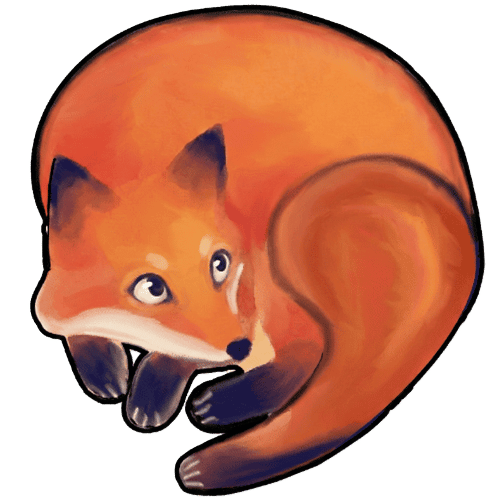
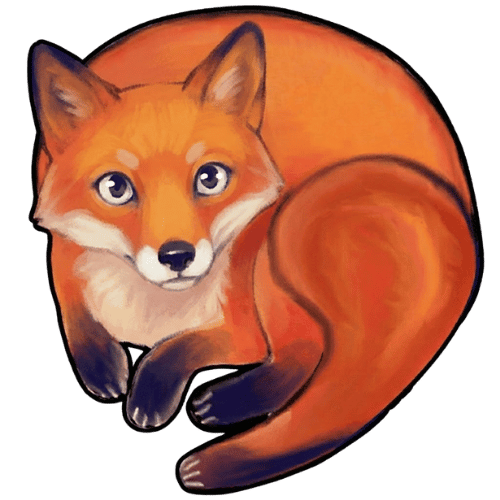
Update filters UI and fox assets

diff --git a/src/App.jsx b/src/App.jsx
@@ -222,17 +222,15 @@ export default function LessicoGame() {
 
   const handleFoxClick = () => {
     setFoxAnim(true);
-
     if (foxCycleStep === 0) {
-      setFoxVariant('alt');
+      setFoxVariant('feedback-ok'); // occhi aperti
       setFoxAnimSize('small'); // primo click: zoom leggero
       setFoxCycleStep(1);
     } else {
-      setFoxVariant('happy');
+      setFoxVariant('feedback-wrong'); // testa alzata
       setFoxAnimSize('big'); // secondo click: zoom ampio
       setFoxCycleStep(0);
     }
-
     if (foxAnimTimeout.current) clearTimeout(foxAnimTimeout.current);
     foxAnimTimeout.current = setTimeout(() => {
       setFoxAnim(false);
@@ -241,25 +239,28 @@ export default function LessicoGame() {
   };
 
   // Gestione upload file
+  const processCSVFile = (file) => {
+    if (!file) return;
+    const reader = new FileReader();
+    reader.onload = (event) => {
+      try {
+        const parsed = parseCSV(event.target.result);
+        if (!parsed.length) {
+          throw new Error('CSV vuoto o non compatibile');
+        }
+        setWords(parsed);
+        setShuffledWords([...parsed].sort(() => Math.random() - 0.5));
+        setDemoMode(false);
+      } catch (err) {
+        triggerSelectionWarning('File non compatibile. Esporta da Google Sheet come CSV con intestazione.');
+      }
+    };
+    reader.readAsText(file);
+  };
+
   const handleFileUpload = (e) => {
     const file = e.target.files[0];
-    if (file) {
-      const reader = new FileReader();
-      reader.onload = (event) => {
-        try {
-          const parsed = parseCSV(event.target.result);
-          if (!parsed.length) {
-            throw new Error('CSV vuoto o non compatibile');
-          }
-          setWords(parsed);
-          setShuffledWords([...parsed].sort(() => Math.random() - 0.5));
-          setDemoMode(false);
-        } catch (err) {
-          triggerSelectionWarning('File non compatibile. Esporta da Google Sheet come CSV con intestazione.');
-        }
-      };
-      reader.readAsText(file);
-    }
+    processCSVFile(file);
   };
 
   // Demo mode: carica 50 parole dal CSV incluso (bundled)
@@ -582,11 +583,11 @@ export default function LessicoGame() {
 
   const InstructionsModal = () => (
     <div
-      className="fixed inset-0 bg-black/70 backdrop-blur-sm z-50 flex items-center justify-center p-4"
+      className="fixed inset-0 bg-black/70 backdrop-blur-sm z-50 flex items-start justify-center p-4 overflow-y-auto"
       onClick={() => setShowInstructions(false)}
     >
       <div
-        className="bg-slate-900 rounded-3xl border border-slate-700 max-w-xl w-full p-6 text-slate-100 shadow-2xl"
+        className="bg-slate-900 rounded-3xl border border-slate-700 max-w-xl w-full p-6 text-slate-100 shadow-2xl mt-6 max-h-[85vh] overflow-y-auto"
         onClick={(e) => e.stopPropagation()}
       >
         <div className="flex items-start justify-between mb-4">
@@ -598,7 +599,7 @@ export default function LessicoGame() {
             ✕
           </button>
         </div>
-        <div className="space-y-3 text-sm text-slate-200 leading-relaxed">
+        <div className="space-y-4 text-sm text-slate-200 leading-relaxed">
           <div>
             <p className="font-semibold">1. 🔍 Filtri</p>
             <p>Se lasci “tutte”, usi l’intero database. Puoi filtrare per:</p>
@@ -609,15 +610,13 @@ export default function LessicoGame() {
               <li>🔁 da rivedere (errori o parole segnate durante il gioco)</li>
             </ul>
           </div>
-
-          <div className="space-y-1">
+          <div className="border-t border-slate-700 pt-4 space-y-1">
             <p className="font-semibold">2. 📚 Tab Studio</p>
             <p>Puoi studiare in due modi:</p>
             <p>1⃣ <strong>Vista Schede</strong>: elenco con definizione, etimologia ed esempi. Da qui puoi aggiungere parole alla sezione “Parole da rivedere”.</p>
             <p>2⃣ <strong>Vista Flashcard</strong>: vedi la parola, clicchi per girarla e leggere i dettagli; poi puoi decidere se aggiungerla a “Parole da rivedere”.</p>
           </div>
-
-          <div className="space-y-1">
+          <div className="border-t border-slate-700 pt-4 space-y-1">
             <p className="font-semibold">3. 🔁 Parole da rivedere</p>
             <p>Raccoglie gli errori commessi nei giochi o le parole selezionate nello studio.</p>
             <p>Funzioni:</p>
@@ -628,8 +627,7 @@ export default function LessicoGame() {
             </ul>
             <p className="mt-1">Quando una parola è acquisita, rimuovila da “Parole da rivedere”.</p>
           </div>
-
-          <div className="space-y-1">
+          <div className="border-t border-slate-700 pt-4 space-y-1">
             <p className="font-semibold">4. 🎮 Tab Giochi</p>
             <p>Quiz, Speed, Completa, Memory usano sempre il set filtrato all’inizio. Ideali per ripassare dopo lo studio.</p>
           </div>
@@ -1239,12 +1237,12 @@ export default function LessicoGame() {
             className="transition-transform hover:scale-105"
             aria-label="Logo"
           >
-            <img
+              <img
               src={
                 foxVariant === 'feedback-ok'
-                  ? LogoVolpinaTestaAlzata
-                  : foxVariant === 'feedback-wrong'
                   ? LogoVolpinaOcchiAperti
+                  : foxVariant === 'feedback-wrong'
+                  ? LogoVolpinaTestaAlzata
                   : foxVariant === 'happy'
                   ? LogoVolpinaOcchiAperti
                   : foxVariant === 'alt'
@@ -1260,22 +1258,29 @@ export default function LessicoGame() {
         <p className="text-slate-400 mb-8">Impara parole nuove giocando!</p>
         
         <div className="space-y-2">
-          <div className="flex items-center justify-between text-slate-200 font-medium">
-            <p>Carica il tuo CSV</p>
+          <div className="flex items-center justify-center gap-2">
+            <p className="text-slate-200 font-medium">Carica il tuo CSV</p>
             <button
               onClick={() => setShowUploadInfo(true)}
-              className="w-6 h-6 rounded-full border border-slate-600 text-slate-300 text-xs flex items-center justify-center hover:text-cyan-300 hover:border-cyan-500"
-              aria-label="Info CSV"
+              className="w-7 h-7 rounded-full border border-slate-600 text-slate-300 text-sm flex items-center justify-center hover:text-cyan-300 hover:border-cyan-500"
+              aria-label="Info formato CSV"
             >
               i
             </button>
           </div>
           <label className="block cursor-pointer group">
-            <div className="border-2 border-dashed border-slate-600 rounded-2xl p-8 transition-all group-hover:border-cyan-700 group-hover:bg-slate-700/20">
+            <div
+              className="border-2 border-dashed border-slate-600 rounded-2xl p-8 transition-all group-hover:border-cyan-700 group-hover:bg-slate-700/20"
+              onDragOver={(e) => e.preventDefault()}
+              onDrop={(e) => {
+                e.preventDefault();
+                const file = e.dataTransfer.files?.[0];
+                processCSVFile(file);
+              }}
+            >
               <Upload className="w-12 h-12 text-slate-500 mx-auto mb-4 group-hover:text-cyan-600 transition-colors" />
-              <p className="text-slate-200 font-medium mb-2">Formato CSV con 12 colonne</p>
-              <p className="text-slate-500 text-sm">Separatore: virgola, UTF-8, prima riga di intestazione.</p>
-              <p className="text-slate-500 text-xs mt-1">Ordine colonne: Data, Termine, Accento, Definizione, Etimologia, Esempio1/2/3, Frequenza d'uso, Linguaggio tecnico, Errori, APPRESO.</p>
+              <p className="text-slate-200 font-medium mb-1">Trascina o seleziona un file CSV</p>
+              <p className="text-slate-500 text-sm">Formato: CSV UTF-8 con intestazione.</p>
             </div>
             <input type="file" accept=".csv" onChange={handleFileUpload} className="hidden" />
           </label>
@@ -1317,9 +1322,9 @@ export default function LessicoGame() {
             <img
               src={
                 foxVariant === 'feedback-ok'
-                  ? LogoVolpinaTestaAlzata
-                  : foxVariant === 'feedback-wrong'
                   ? LogoVolpinaOcchiAperti
+                  : foxVariant === 'feedback-wrong'
+                  ? LogoVolpinaTestaAlzata
                   : foxVariant === 'happy'
                   ? LogoVolpinaOcchiAperti
                   : foxVariant === 'alt'
@@ -1332,8 +1337,9 @@ export default function LessicoGame() {
           </button>
         </div>
           <h1 className="text-4xl font-bold text-slate-100 mb-2">Giochi di parole</h1>
-          <div className="flex items-center justify-center gap-3 text-slate-400">
+          <div className="flex items-center justify-center gap-2 text-slate-400">
             <p>{filteredPool.length} parole disponibili</p>
+            <span className="text-slate-500">-</span>
             <button
               onClick={() => setShowInstructions(true)}
               className="text-slate-200 underline decoration-dotted underline-offset-4 hover:text-cyan-300 text-sm"
@@ -1347,28 +1353,18 @@ export default function LessicoGame() {
         <div className="bg-slate-800/50 border border-slate-700/60 p-6 rounded-3xl mb-6 shadow-xl">
           <div className="flex items-center justify-between">
             <div>
-              <p className="text-slate-200 font-bold text-lg flex items-center gap-2">
-                Selezione parole
-                <button
-                  type="button"
-                  onClick={() => setShowSelectionInfo(true)}
-                  className="w-5 h-5 rounded-full border border-slate-600 text-slate-300 text-xs flex items-center justify-center hover:text-cyan-300 hover:border-cyan-500"
-                  aria-label="Info selezione parole"
-                >
-                  i
-                </button>
+              <p className="text-slate-200 font-bold text-lg">Seleziona le parole con cui giocare</p>
+              <p className="text-slate-400 text-sm mt-1">
+                Disponibili: {filteredPool.length}
+                {learnedFilter !== 'all' && (
+                  <span className="text-xs text-cyan-300 ml-2">
+                    ({learnedFilter === 'yes' ? 'solo apprese' : 'solo da apprendere'})
+                  </span>
+                )}
+                {onlyWrongSubset && (
+                  <span className="text-xs text-orange-300 ml-2">(solo sbagliate)</span>
+                )}
               </p>
-          <p className="text-slate-400 text-sm mt-1">
-            Disponibili: {filteredPool.length}
-            {learnedFilter !== 'all' && (
-              <span className="text-xs text-cyan-300 ml-2">
-                ({learnedFilter === 'yes' ? 'solo apprese' : 'solo da apprendere'})
-              </span>
-            )}
-            {onlyWrongSubset && (
-              <span className="text-xs text-orange-300 ml-2">(solo sbagliate)</span>
-            )}
-          </p>
             </div>
             <button
               onClick={() => setShowSelectionPanel(true)}
@@ -1723,8 +1719,10 @@ export default function LessicoGame() {
           className="bg-slate-900 rounded-3xl max-w-3xl w-full border border-slate-700/50 p-6 shadow-2xl space-y-4"
           onClick={(e) => e.stopPropagation()}
         >
-          <div className="flex items-center justify-between">
-            <h2 className="text-2xl font-bold text-slate-100">Selezione parole</h2>
+          <div className="flex items-center justify-between gap-3">
+            <div className="flex items-center gap-2">
+              <h2 className="text-2xl font-bold text-slate-100">Imposta i filtri</h2>
+            </div>
             <button
               onClick={() => setShowSelectionPanel(false)}
               className="text-slate-400 hover:text-slate-200 text-xl"
@@ -1735,10 +1733,19 @@ export default function LessicoGame() {
 
           <div className="space-y-3">
             <div className="flex flex-col sm:flex-row sm:items-center sm:justify-between gap-2">
-              <p className="text-slate-400 text-sm">Configura tranche, parole da rivedere/apprese e parole più recenti da studiare.</p>
-              <p className="text-slate-300 text-sm">
-                Selezionate: <span className="font-semibold text-cyan-300">{filteredPool.length}</span>
-              </p>
+              <div className="flex items-center gap-2 text-slate-300 text-sm">
+                <span>
+                  Selezionate: <span className="font-semibold text-cyan-300">{filteredPool.length}</span>
+                </span>
+                <span className="text-slate-500">-</span>
+                <button
+                  onClick={() => setShowSelectionInfo(true)}
+                  className="text-slate-200 underline decoration-dotted underline-offset-4 hover:text-cyan-300 text-sm"
+                  aria-label="Istruzioni selezione parole"
+                >
+                  Istruzioni
+                </button>
+              </div>
             </div>
             <div className="grid gap-3">
               <div className="grid grid-cols-1 sm:grid-cols-2 gap-3">
@@ -1940,9 +1947,9 @@ export default function LessicoGame() {
         <img
           src={
             foxVariant === 'feedback-ok'
-              ? LogoVolpinaTestaAlzata
-              : foxVariant === 'feedback-wrong'
               ? LogoVolpinaOcchiAperti
+              : foxVariant === 'feedback-wrong'
+              ? LogoVolpinaTestaAlzata
               : foxVariant === 'happy'
               ? LogoVolpinaOcchiAperti
               : foxVariant === 'alt'
